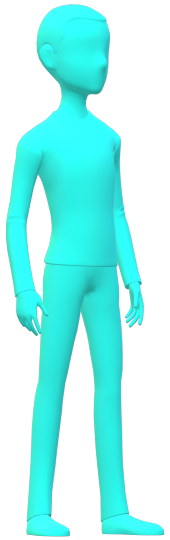
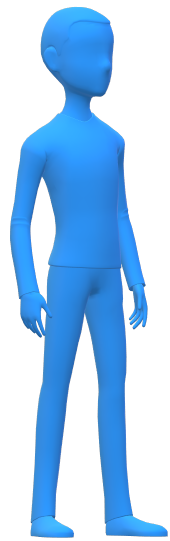
changes from matte & lalla

diff --git a/src/styles/global.scss b/src/styles/global.scss
@@ -1,6 +1,6 @@
-$theme-color-dark: #010136;
-$theme-color-light: #3280f3;
-$anti-theme-color: #dcd87d;
+$theme-color-dark: #16ff00;
+$theme-color-light: #0026e7;
+$anti-theme-color: #ffffff;
 
 html{
   width: 100%;
